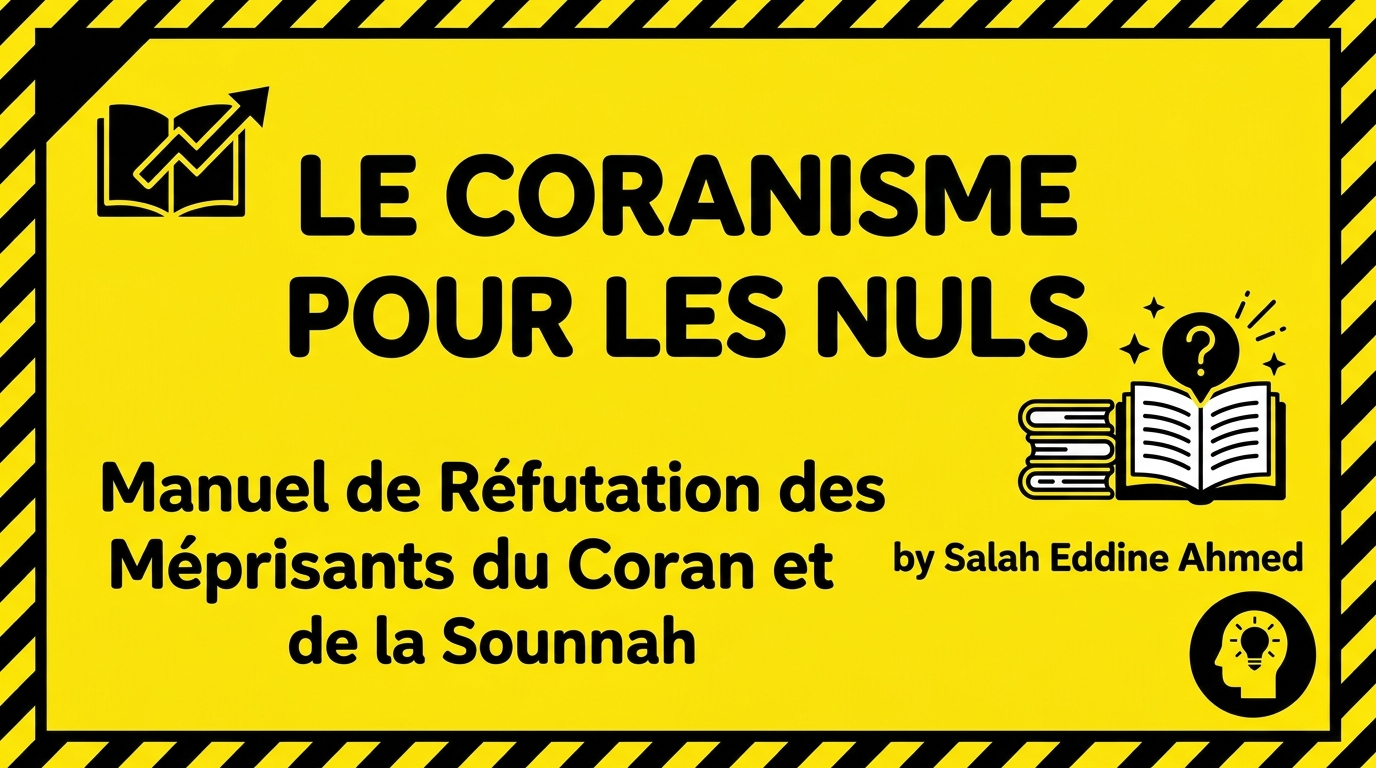
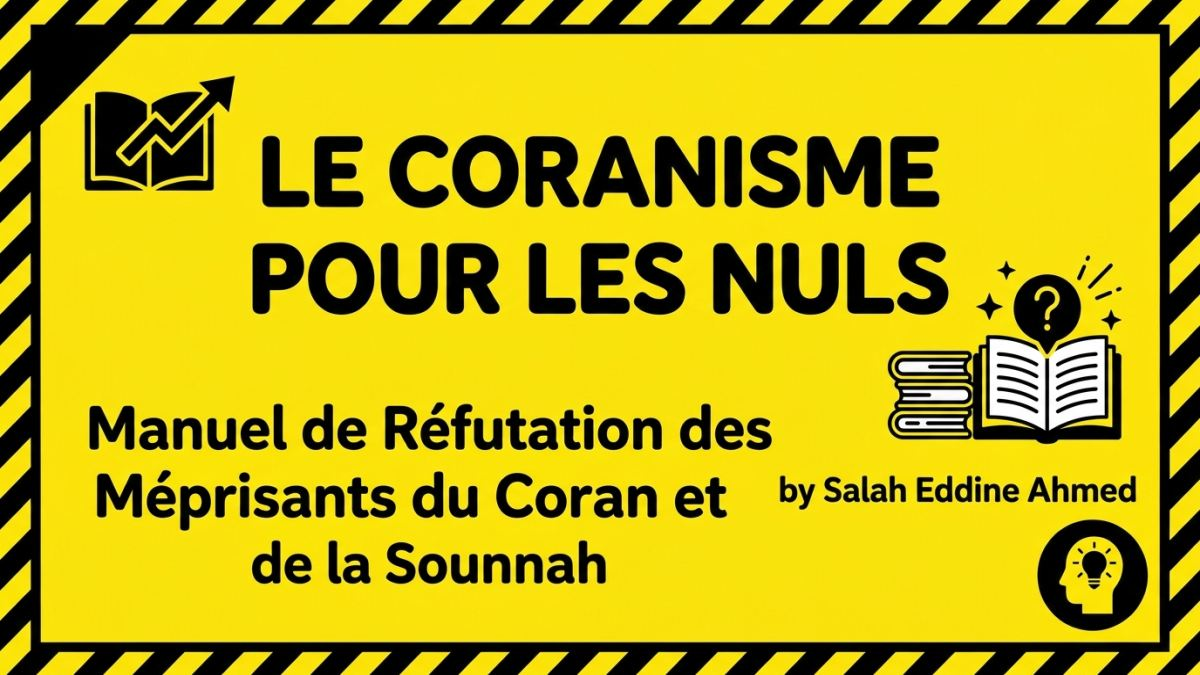
fix: WhatsApp et Twitter Card (URL absolue HTTPS et compression image < 300KB)

diff --git a/index.html b/index.html
@@ -17,24 +17,31 @@
   <meta name="apple-mobile-web-app-status-bar-style" content="black-translucent">
   <meta name="apple-mobile-web-app-title" content="Coranisme Nuls">
 
-  <!-- Open Graph (Facebook, WhatsApp, LinkedIn, Discord, Telegram) -->
+  <!-- Open Graph (WhatsApp, Facebook, LinkedIn, Discord, Telegram) -->
   <meta property="og:type" content="website">
   <meta property="og:site_name" content="Le Coranisme Pour les Nuls">
   <meta property="og:title" content="Le Coranisme Pour les Nuls — Manuel de Réfutation">
   <meta property="og:description" content="Manuel de réfutation méthodique des méprisants du Coran et de la Sounnah par Salah Eddine Ahmed. 10 arguments analysés, analogies concrètes, versets arabes et réponses express 30s.">
-  <meta property="og:image" content="assets/og-image.jpg">
-  <meta property="og:image:secure_url" content="assets/og-image.jpg">
+  <meta property="og:image" content="https://raw.githubusercontent.com/novaskilltech/coranisme-pour-les-nuls/main/assets/og-image.jpg">
+  <meta property="og:image:secure_url" content="https://raw.githubusercontent.com/novaskilltech/coranisme-pour-les-nuls/main/assets/og-image.jpg">
   <meta property="og:image:type" content="image/jpeg">
   <meta property="og:image:width" content="1200">
   <meta property="og:image:height" content="675">
   <meta property="og:image:alt" content="Bannière Le Coranisme Pour les Nuls">
   <meta property="og:locale" content="fr_FR">
+  <meta property="og:url" content="https://coranisme-pour-les-nuls.vercel.app/">
+
+  <!-- Fallbacks spécifiques WhatsApp & Microdata -->
+  <meta itemprop="name" content="Le Coranisme Pour les Nuls">
+  <meta itemprop="description" content="Manuel de réfutation méthodique des méprisants du Coran et de la Sounnah par Salah Eddine Ahmed.">
+  <meta itemprop="image" content="https://raw.githubusercontent.com/novaskilltech/coranisme-pour-les-nuls/main/assets/og-image.jpg">
+  <link rel="image_src" href="https://raw.githubusercontent.com/novaskilltech/coranisme-pour-les-nuls/main/assets/og-image.jpg">
 
   <!-- Twitter / X Card -->
   <meta name="twitter:card" content="summary_large_image">
   <meta name="twitter:title" content="Le Coranisme Pour les Nuls — Manuel de Réfutation">
   <meta name="twitter:description" content="Manuel de réfutation méthodique des méprisants du Coran et de la Sounnah par Salah Eddine Ahmed. Aumône perpétuelle & libre de droit.">
-  <meta name="twitter:image" content="assets/og-image.jpg">
+  <meta name="twitter:image" content="https://raw.githubusercontent.com/novaskilltech/coranisme-pour-les-nuls/main/assets/og-image.jpg">
   <meta name="twitter:image:alt" content="Bannière Le Coranisme Pour les Nuls">
 
   <!-- Schema.org JSON-LD (Données Structurées) -->
